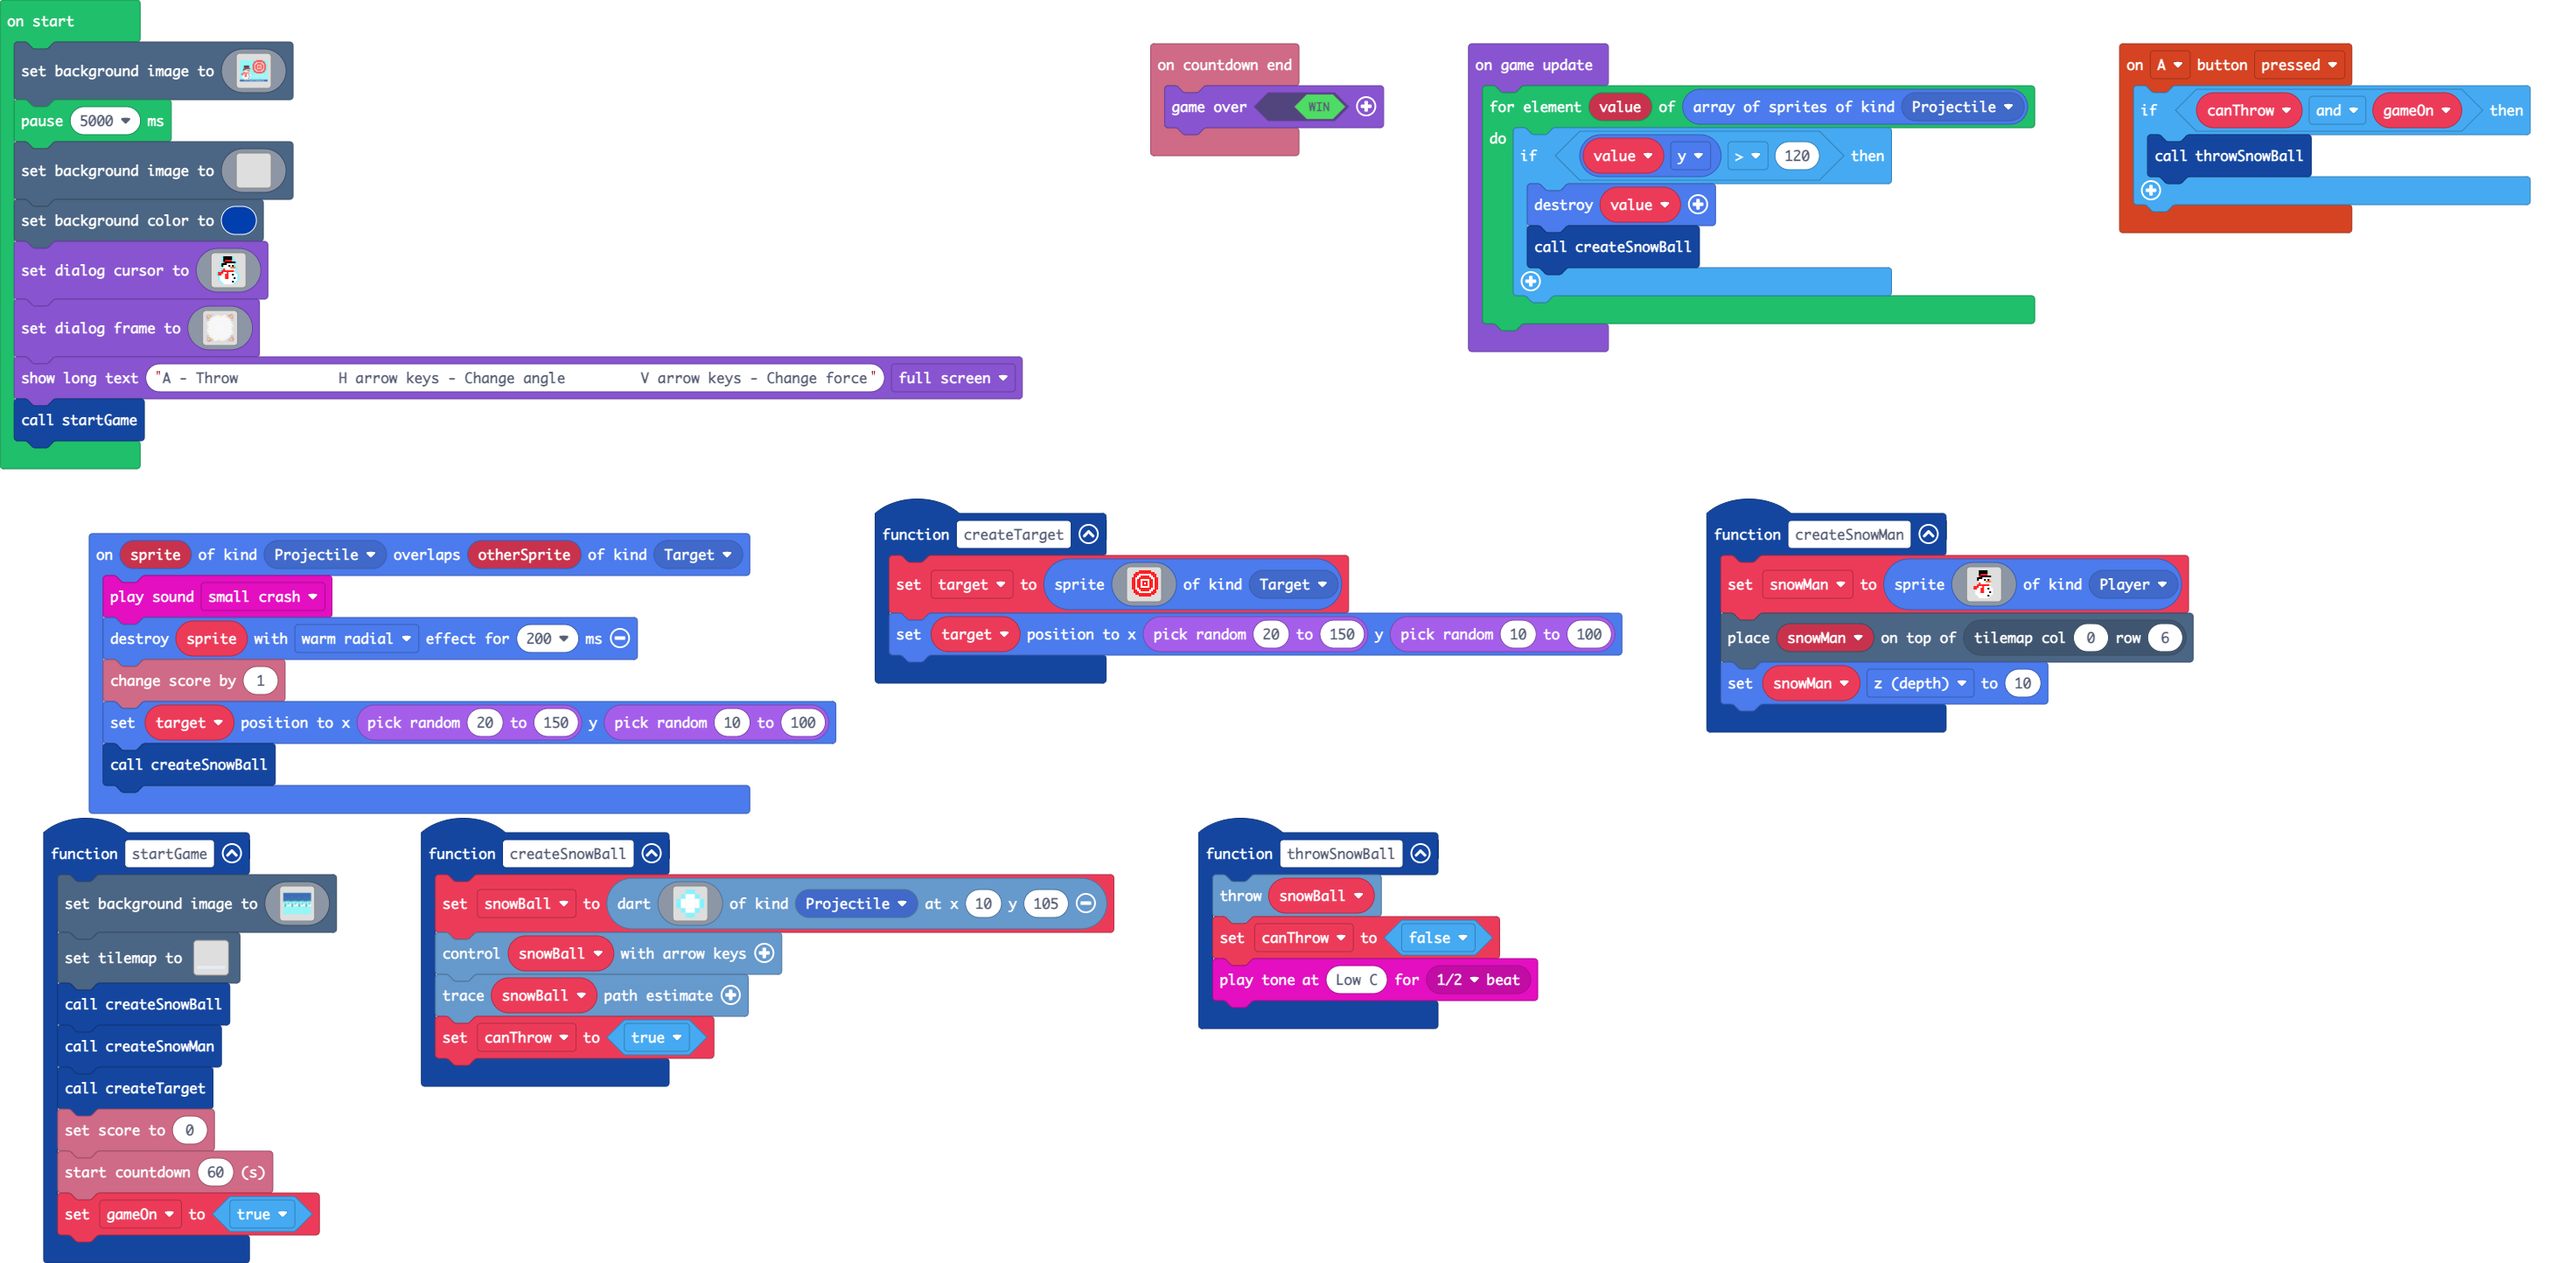
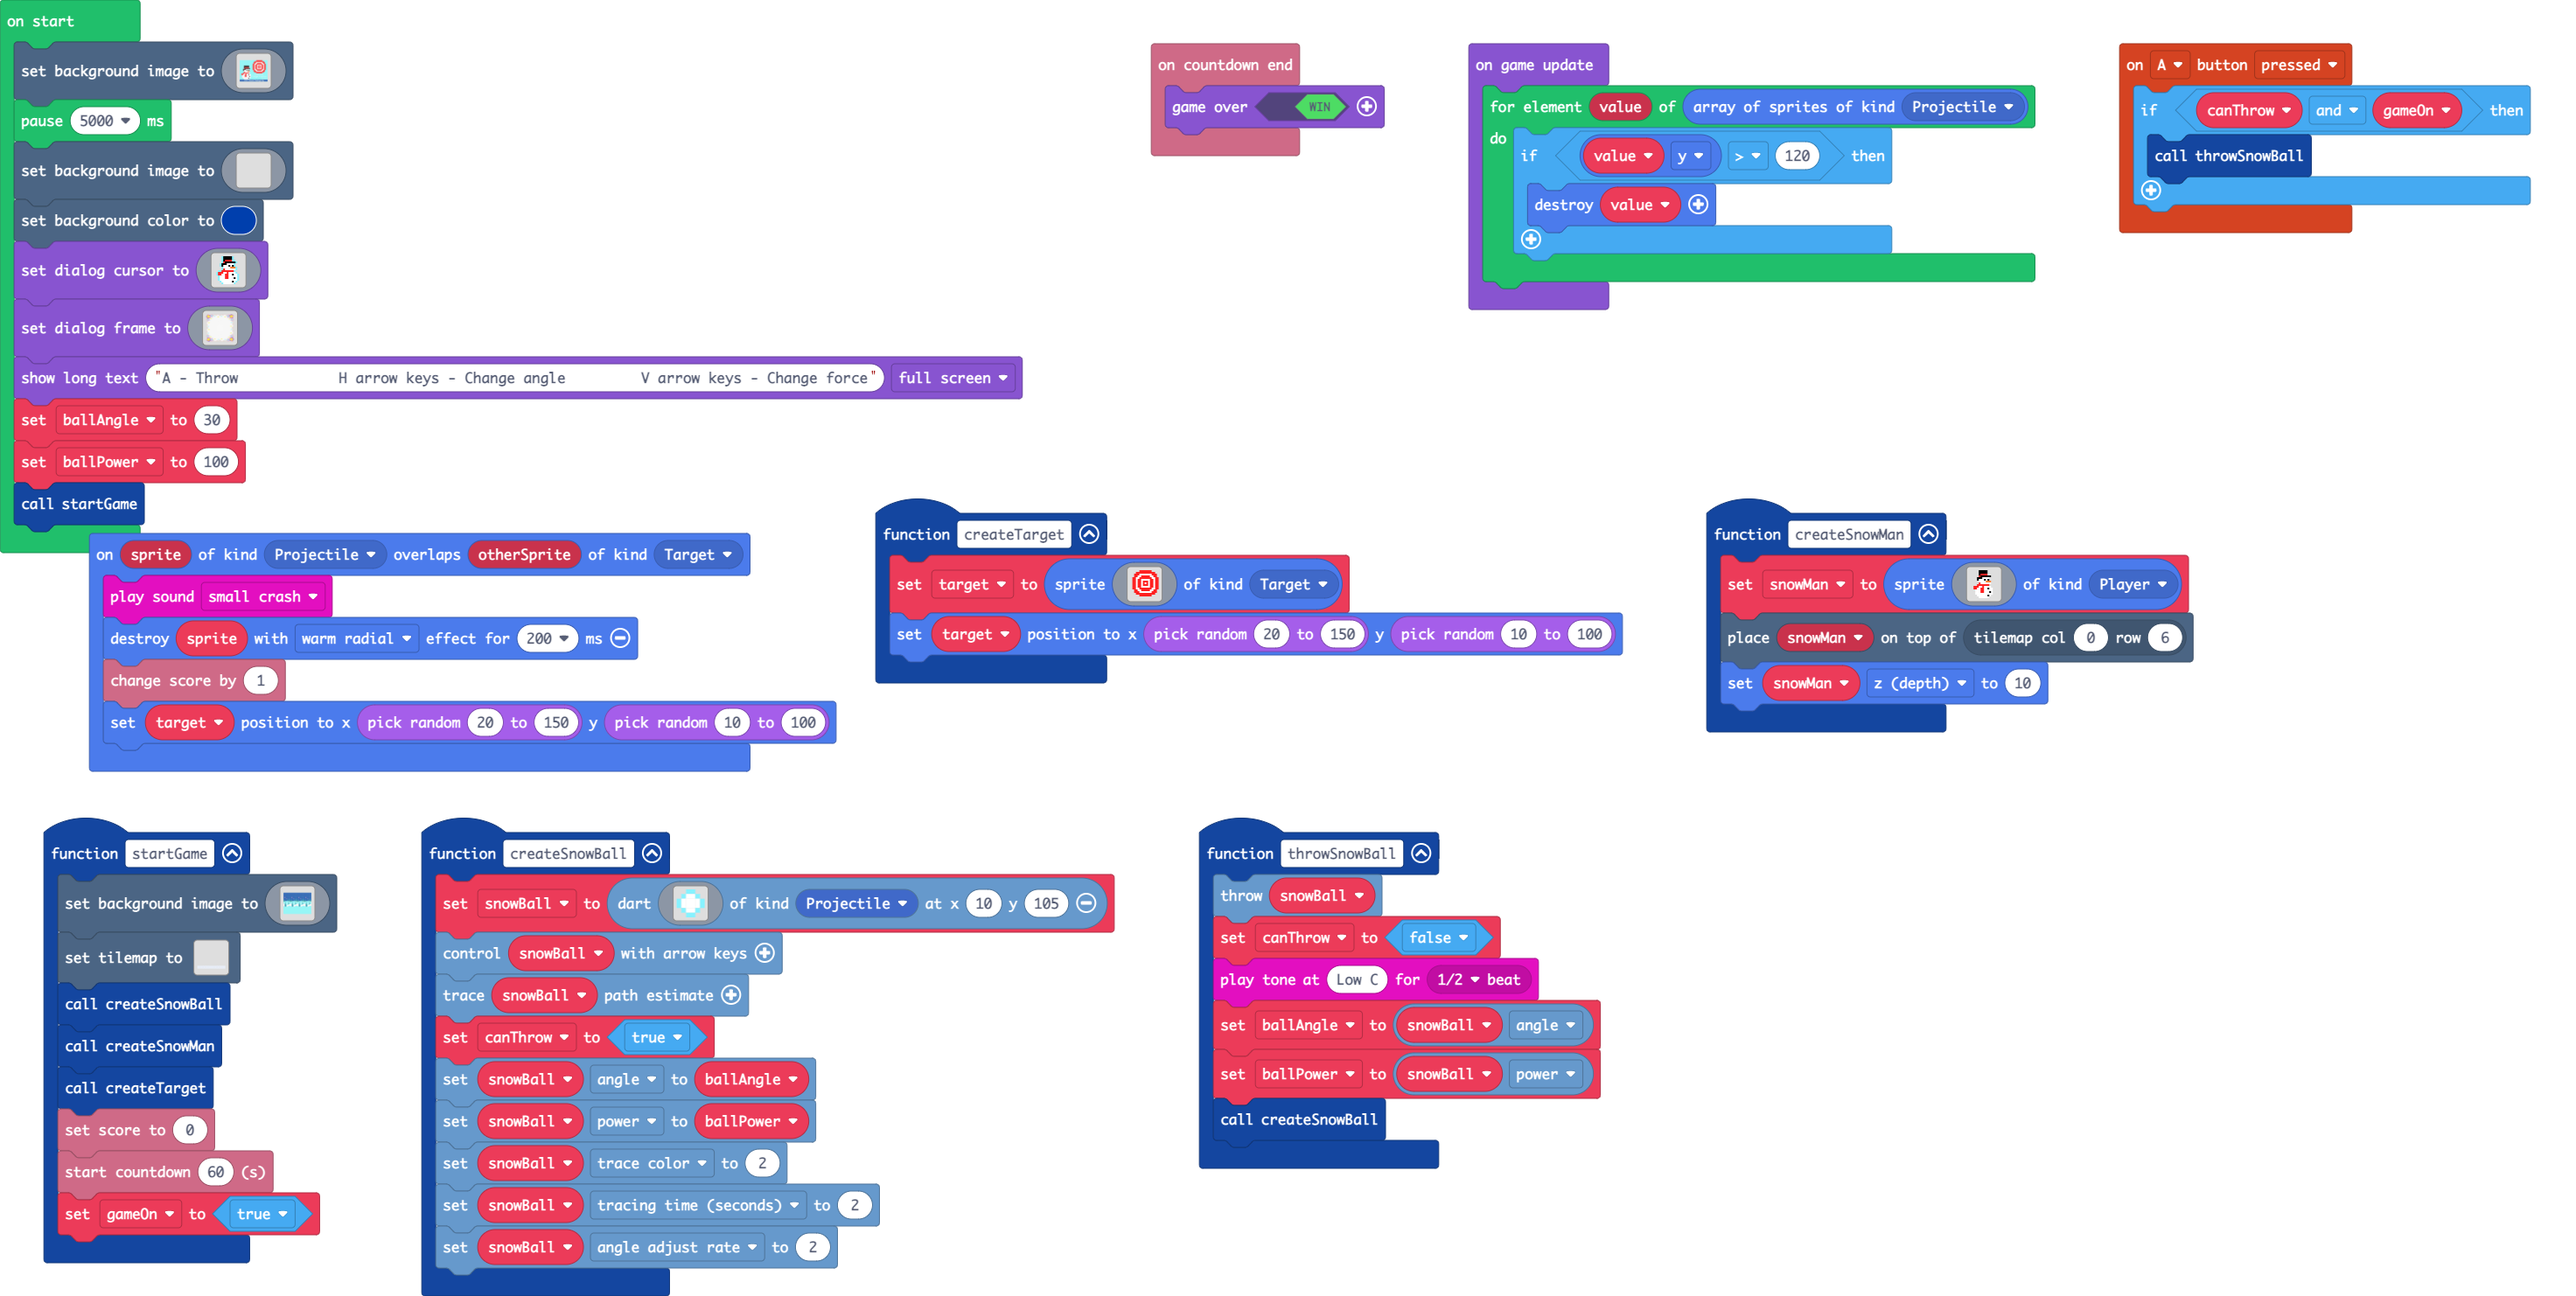
Update pxt.json, main.blocks, main.ts

diff --git a/main.ts b/main.ts
@@ -164,12 +164,14 @@ sprites.onOverlap(SpriteKind.Projectile, SpriteKind.Target, function (sprite, ot
     sprite.destroy(effects.warmRadial, 200)
     info.changeScoreBy(1)
     target.setPosition(randint(20, 150), randint(10, 100))
-    createSnowBall()
 })
 function throwSnowBall () {
     snowBall.throwDart()
     canThrow = false
     music.playTone(131, music.beat(BeatFraction.Half))
+    ballAngle = snowBall.angle
+    ballPower = snowBall.pow
+    createSnowBall()
 }
 info.onCountdownEnd(function () {
     game.over(true)
@@ -207,12 +209,19 @@ function createSnowBall () {
     snowBall.controlWithArrowKeys()
     snowBall.setTrace()
     canThrow = true
+    snowBall.angle = ballAngle
+    snowBall.pow = ballPower
+    snowBall.traceColor = 2
+    snowBall.iter = 2
+    snowBall.angleRate = 2
 }
 let snowBall: Dart = null
 let target: Sprite = null
 let gameOn = false
 let canThrow = false
 let snowMan: Sprite = null
+let ballPower = 0
+let ballAngle = 0
 scene.setBackgroundImage(img`
     9999999999999999999999999999999999999999999999999999999999999999999999999999999999999999999999922222222222222222222222222222222222999999999999999999999999999999
     9999999999999999999999999999999999999999999999999999999999999999999999999999999999999999999999922222222222222222222222222222222222999999999999999999999999999999
@@ -546,12 +555,13 @@ game.setDialogFrame(img`
     ..................................................................
     `)
 game.showLongText("A - Throw            H arrow keys - Change angle         V arrow keys - Change force", DialogLayout.Full)
+ballAngle = 30
+ballPower = 100
 startGame()
 game.onUpdate(function () {
     for (let value of sprites.allOfKind(SpriteKind.Projectile)) {
         if (value.y > 120) {
             value.destroy()
-            createSnowBall()
         }
     }
 })
